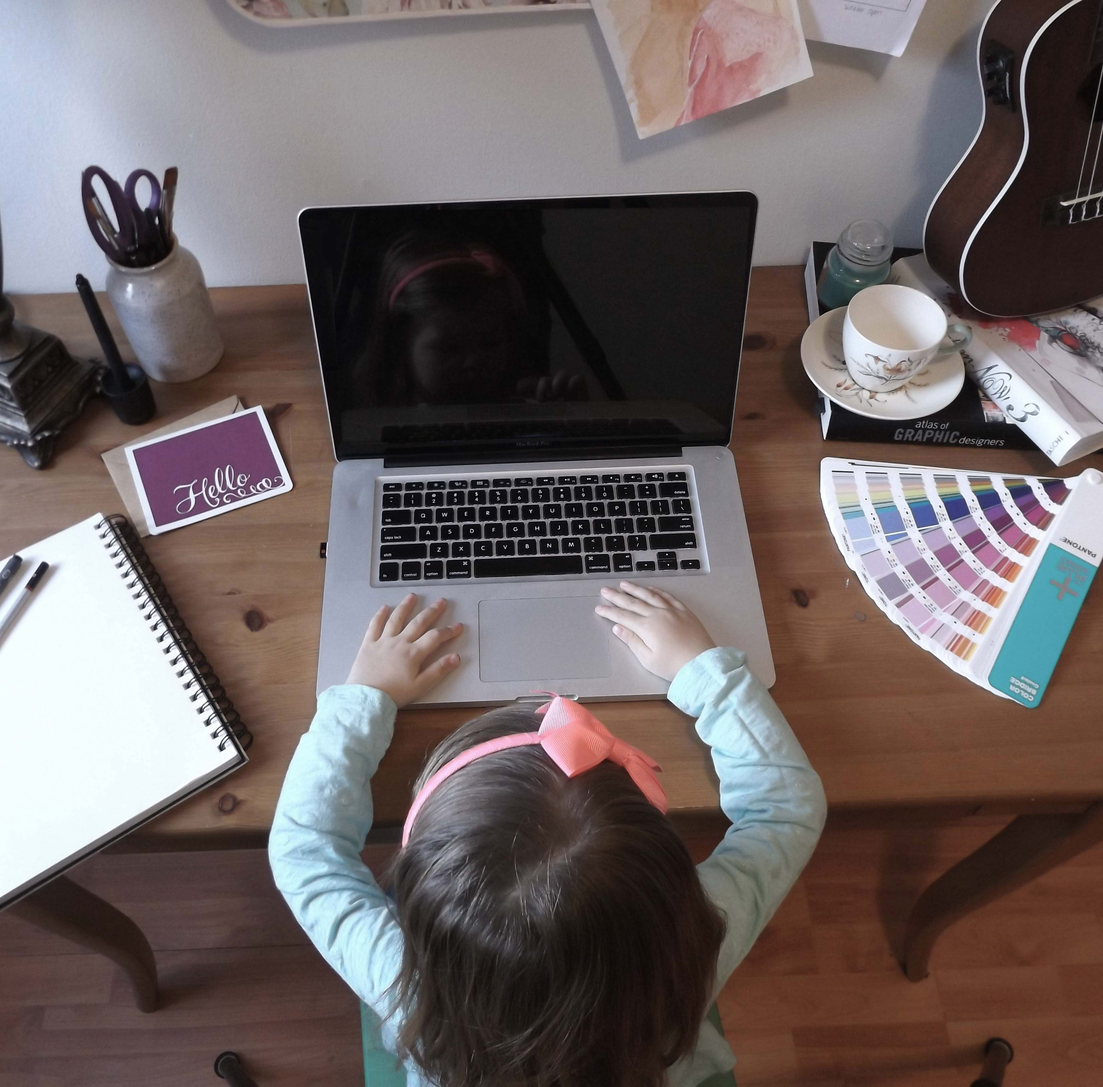
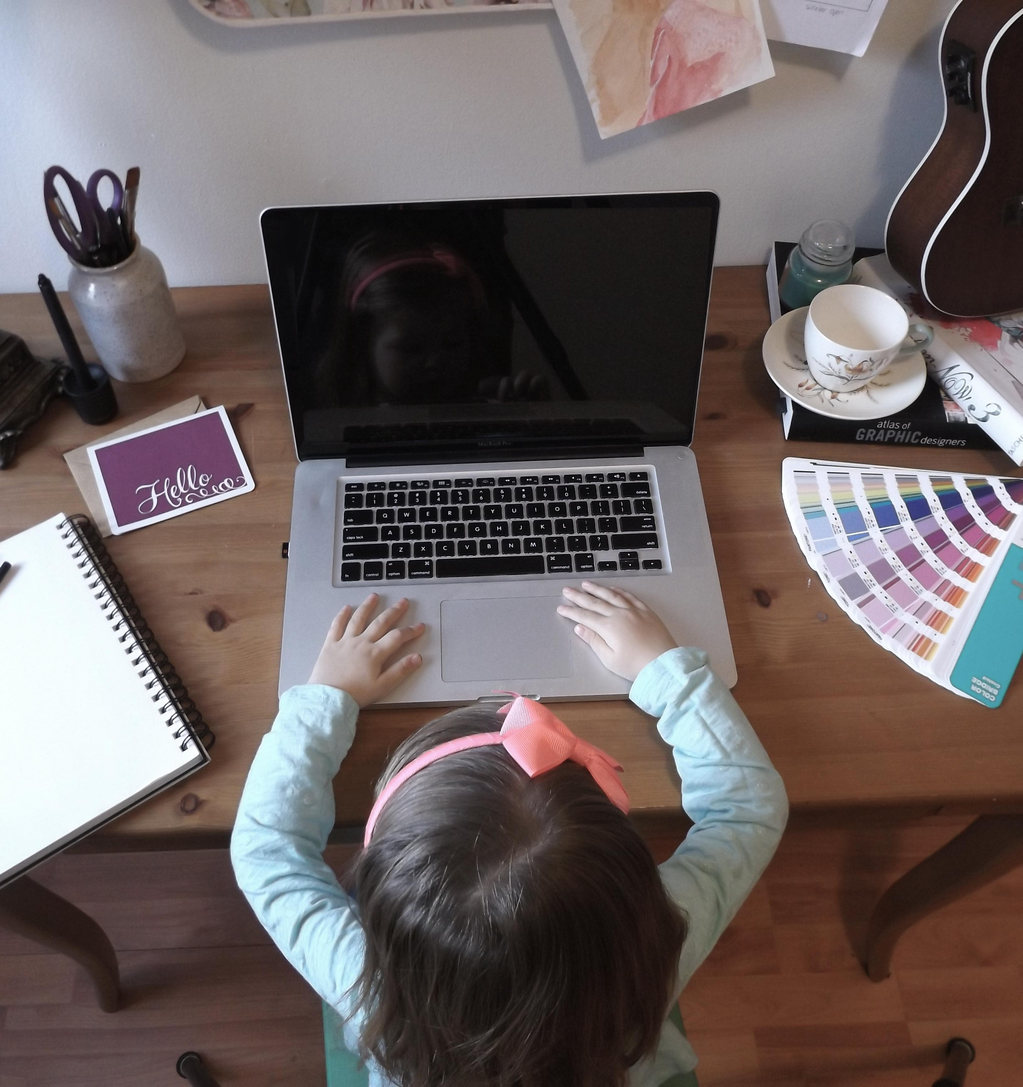
font + colours

diff --git a/index.html b/index.html
@@ -239,17 +239,17 @@
 
 		</div>
 
-		<div class="unit unit-xs-1 unit-s-1 unit-m-1 unit-l-1 island-1-2">
+		<div class="unit unit-xs-1 unit-s-1 unit-m-1 unit-l-1 island">
 
-			<p class="island-1-2 kilo">Would you like to work with me? Have a question or comment? I'd be happy to hear from you!</p>
+			<p class="island-1-2">Would you like to work with me? Have a question or comment? I'd be happy to hear from you!</p>
 
-			<p class="email kilo">say  <a class="email email-address" href="mailto:hello@madeleinegagne.ca">hello@madeleinegagne.ca</a></p>
+			<p class="email">say  <a class="email email-address" href="mailto:hello@madeleinegagne.ca">hello@madeleinegagne.ca</a></p>
 
 		</div>
 
 		<div class="unit unit-xs-1 unit-s-1 unit-m-1 unit-l-1 copyright">
 
-			<p class="micro">copyright © Madeleine Gagné 2014</p>
+			<p class="milli">copyright © Madeleine Gagné 2014</p>
 
 		</div>
 

diff --git a/css/general.css b/css/general.css
@@ -38,7 +38,7 @@ img {
   position: fixed;
   top: 0;
   z-index: 10;
-  background-color: rgba(0,0,0,0.7);
+  background-color: rgba(194,181,214,0.7);
   width: 100%;
 }
 
@@ -250,19 +250,18 @@ footer ul li{
 	color: black;
 	font-weight: 900;
 	text-decoration: none;
-	margin-bottom: 4em;
 	margin-top: -1em;
 }
 
 .email-address:hover{
-	color: white;
+	color: #C2B5D6;
 	-webkit-transition: all 0.3s ease;
    -moz-transition:    all 0.3s ease;
    -o-transition:      all 0.3s ease;
 }
 
 .copyright{
-	background-color: gray;
+	background-color: #C2B5D6;
 	padding-top: 1em;
 }
 
@@ -430,7 +429,7 @@ footer ul li{
 	}
 
 	.contact{
-		background: transparent url("../img/lily-desk-top-mobile.jpg") no-repeat center top;
+		background: transparent url("../img/lily-desk-top.jpg") no-repeat center top;
 		background-size: cover;
 	}
 

diff --git a/css/type.css b/css/type.css
@@ -82,6 +82,7 @@ nav ul li a:hover{
 a{
   text-decoration: none;
   font-weight: 700;
+  font-size: 0.75em;
 }
 
 a:focus,
@@ -171,4 +172,21 @@ sub {
 .gutter-double, .gutter-2 {
   padding-left: 3.0000rem;
   padding-right: 3.0000rem;
+}
+
+@media only screen and (min-width: 25em){
+
+  a{
+  font-size: 1em;
+  }
+
+}
+
+@media only screen and (min-width: 38em){
+
+  a{
+  text-decoration: none;
+  font-weight: 100;
+  }
+
 }
